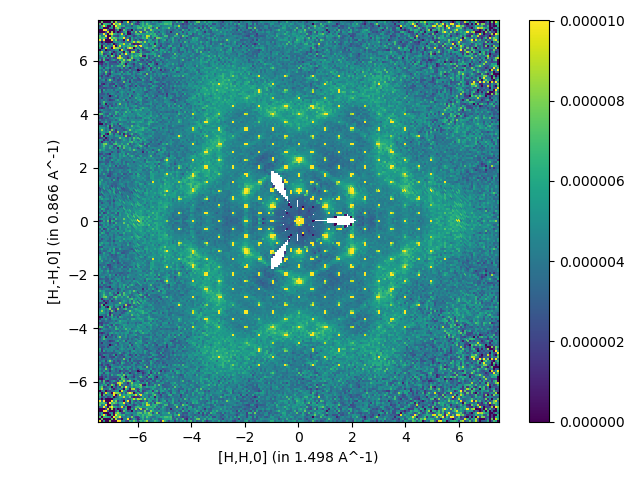
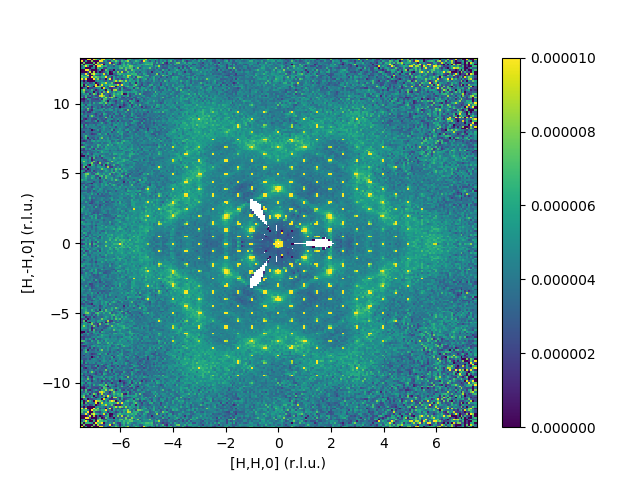
Fix changes from updated MDNorm and fix systemtest (dimension units have changed)

diff --git a/Framework/PythonInterface/plugins/algorithms/WorkflowAlgorithms/SingleCrystalDiffuseReduction.py b/Framework/PythonInterface/plugins/algorithms/WorkflowAlgorithms/SingleCrystalDiffuseReduction.py
@@ -117,11 +117,11 @@ class SingleCrystalDiffuseReduction(DataProcessorAlgorithm):
 
         self.copyProperties('MDNorm', ['SymmetryOperations'])
 
-        self.declareProperty(FloatArrayProperty('QDimension1', [1, 0, 0], FloatArrayLengthValidator(3), direction=Direction.Input),
+        self.declareProperty(FloatArrayProperty('QDimension0', [1, 0, 0], FloatArrayLengthValidator(3), direction=Direction.Input),
                              "The first Q projection axis")
-        self.declareProperty(FloatArrayProperty('QDimension2', [0, 1, 0], FloatArrayLengthValidator(3), direction=Direction.Input),
+        self.declareProperty(FloatArrayProperty('QDimension1', [0, 1, 0], FloatArrayLengthValidator(3), direction=Direction.Input),
                              "The second Q projection axis")
-        self.declareProperty(FloatArrayProperty('QDimension3', [0, 0, 1], FloatArrayLengthValidator(3), direction=Direction.Input),
+        self.declareProperty(FloatArrayProperty('QDimension2', [0, 0, 1], FloatArrayLengthValidator(3), direction=Direction.Input),
                              "The third Q projection axis")
 
         self.copyProperties('MDNorm', ['Dimension0Binning', 'Dimension1Binning', 'Dimension2Binning'])
@@ -161,9 +161,9 @@ class SingleCrystalDiffuseReduction(DataProcessorAlgorithm):
         self.setPropertyGroup("MaskFile","Corrections")
 
         # Projection and binning
+        self.setPropertyGroup("QDimension0","Projection and binning")
         self.setPropertyGroup("QDimension1","Projection and binning")
         self.setPropertyGroup("QDimension2","Projection and binning")
-        self.setPropertyGroup("QDimension3","Projection and binning")
         self.setPropertyGroup("Dimension0Binning","Projection and binning")
         self.setPropertyGroup("Dimension1Binning","Projection and binning")
         self.setPropertyGroup("Dimension2Binning","Projection and binning")
@@ -263,14 +263,11 @@ class SingleCrystalDiffuseReduction(DataProcessorAlgorithm):
                    OutputNormalizationWorkspace='__norm',
                    TemporaryNormalizationWorkspace='__norm' if mtd.doesExist('__norm') else None,
                    OutputWorkspace='__normalizedData',
+                   QDimension0=self.getProperty('QDimension0').value,
                    QDimension1=self.getProperty('QDimension1').value,
                    QDimension2=self.getProperty('QDimension2').value,
-                   QDimension3=self.getProperty('QDimension3').value,
-                   Dimension0Name='QDimension1',
                    Dimension0Binning=self.getProperty('Dimension0Binning').value,
-                   Dimension1Name='QDimension2',
                    Dimension1Binning=self.getProperty('Dimension1Binning').value,
-                   Dimension2Name='QDimension3',
                    Dimension2Binning=self.getProperty('Dimension2Binning').value,
                    SymmetryOperations=self.getProperty('SymmetryOperations').value)
             DeleteWorkspace('__md')
@@ -298,14 +295,11 @@ class SingleCrystalDiffuseReduction(DataProcessorAlgorithm):
                        OutputNormalizationWorkspace='__bkg_norm',
                        TemporaryNormalizationWorkspace='__bkg_norm' if mtd.doesExist('__bkg_norm') else None,
                        OutputWorkspace='__normalizedBackground',
+                       QDimension0=self.getProperty('QDimension0').value,
                        QDimension1=self.getProperty('QDimension1').value,
                        QDimension2=self.getProperty('QDimension2').value,
-                       QDimension3=self.getProperty('QDimension3').value,
-                       Dimension0Name='QDimension1',
                        Dimension0Binning=self.getProperty('Dimension0Binning').value,
-                       Dimension1Name='QDimension2',
                        Dimension1Binning=self.getProperty('Dimension1Binning').value,
-                       Dimension2Name='QDimension3',
                        Dimension2Binning=self.getProperty('Dimension2Binning').value,
                        SymmetryOperations=self.getProperty('SymmetryOperations').value)
                 DeleteWorkspace('__bkg_md')

diff --git a/Testing/SystemTests/tests/analysis/SingleCrystalDiffuseReductionTest.py b/Testing/SystemTests/tests/analysis/SingleCrystalDiffuseReductionTest.py
@@ -23,13 +23,12 @@ class SingleCrystalDiffuseTest(systemtesting.MantidSystemTest):
                                       OutputWorkspace='SCDR_output',
                                       SetGoniometer=True,
                                       Axis0="BL9:Mot:Sample:Axis1,0,1,0,1",
-                                      Uproj='1,1,0',
-                                      Vproj='1,-1,0',
-                                      Wproj='0,0,1',
-                                      BinningDim0='-7.5375,7.5375,201',
-                                      BinningDim1='-13.165625,13.165625,201',
-                                      BinningDim2='-0.1,0.1,1',
-                                      SymmetryOps="P 31 2 1")
+                                      QDimension0='1,1,0',
+                                      QDimension1='1,-1,0',
+                                      Dimension0Binning='-7.5375,0.075,7.5375',
+                                      Dimension1Binning='-13.165625,0.13100125,13.165625',
+                                      Dimension2Binning='-0.1,0.1',
+                                      SymmetryOperations="P 31 2 1")
 
     def validate(self):
         results = 'SCDR_output'

diff --git a/docs/source/algorithms/SingleCrystalDiffuseReduction-v1.rst b/docs/source/algorithms/SingleCrystalDiffuseReduction-v1.rst
@@ -226,13 +226,18 @@ Usage
                                  OutputWorkspace='output',
                                  SetGoniometer=True,
                                  Axis0="BL9:Mot:Sample:Axis1,0,1,0,1",
-                                 QDimension1='1,1,0',
-                                 QDimension2='1,-1,0',
-                                 QDimension3='0,0,1',
+                                 QDimension0='1,1,0',
+                                 QDimension1='1,-1,0',
+                                 QDimension2='0,0,1',
                                  Dimension0Binning='-7.5375,0.075,7.5375',
-                                 Dimension1Binning='-13.165625,0.131,13.165625',
+                                 Dimension1Binning='-13.165625,0.13100125,13.165625',
                                  Dimension2Binning='-0.1,0.1',
                                  SymmetryOperations="P 31 2 1")
+
+   fig, ax = plt.subplots(subplot_kw={'projection':'mantid'})
+   c = ax.pcolormesh(mtd['output'],vmin=0, vmax=1e-5)
+   fig.colorbar(c)
+   plt.show()
 
 .. figure:: /images/SingleCrystalDiffuseReduction_corelli_multiple_sym_bkg_HH0.png
 
